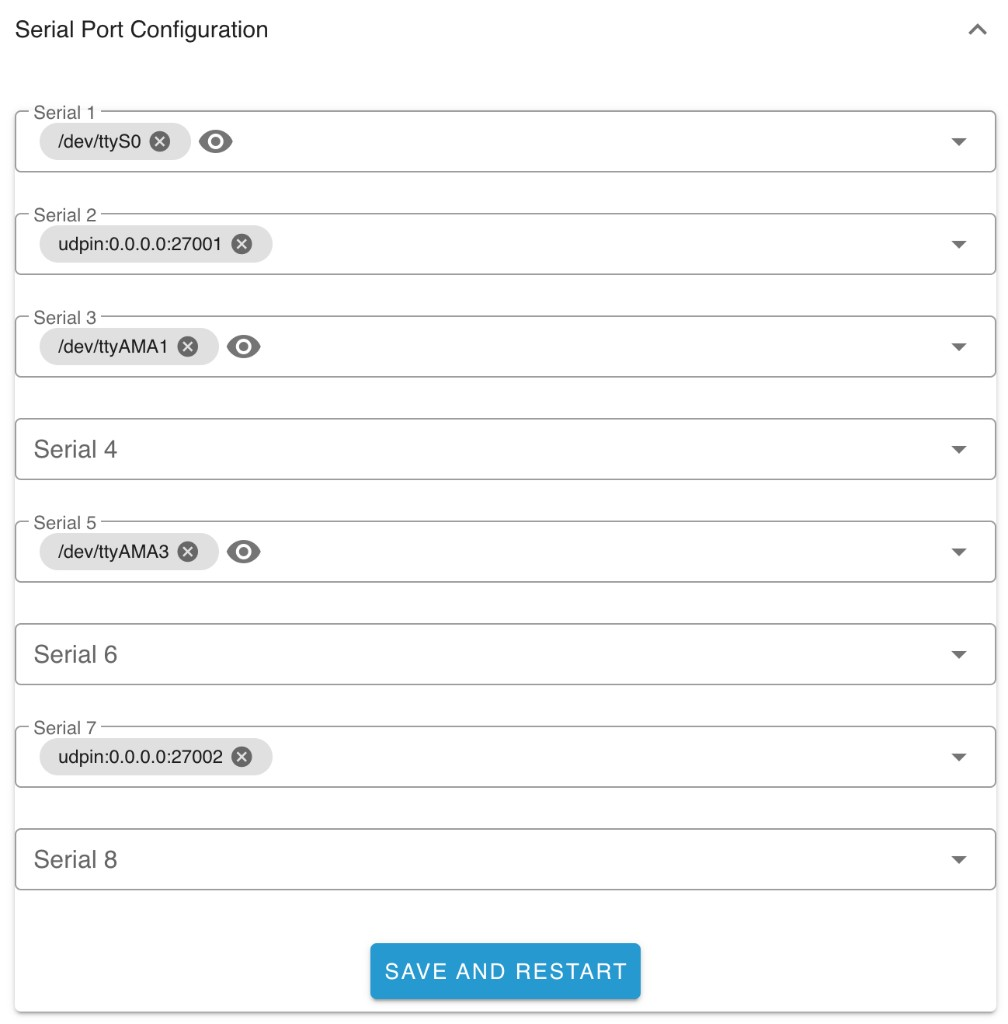
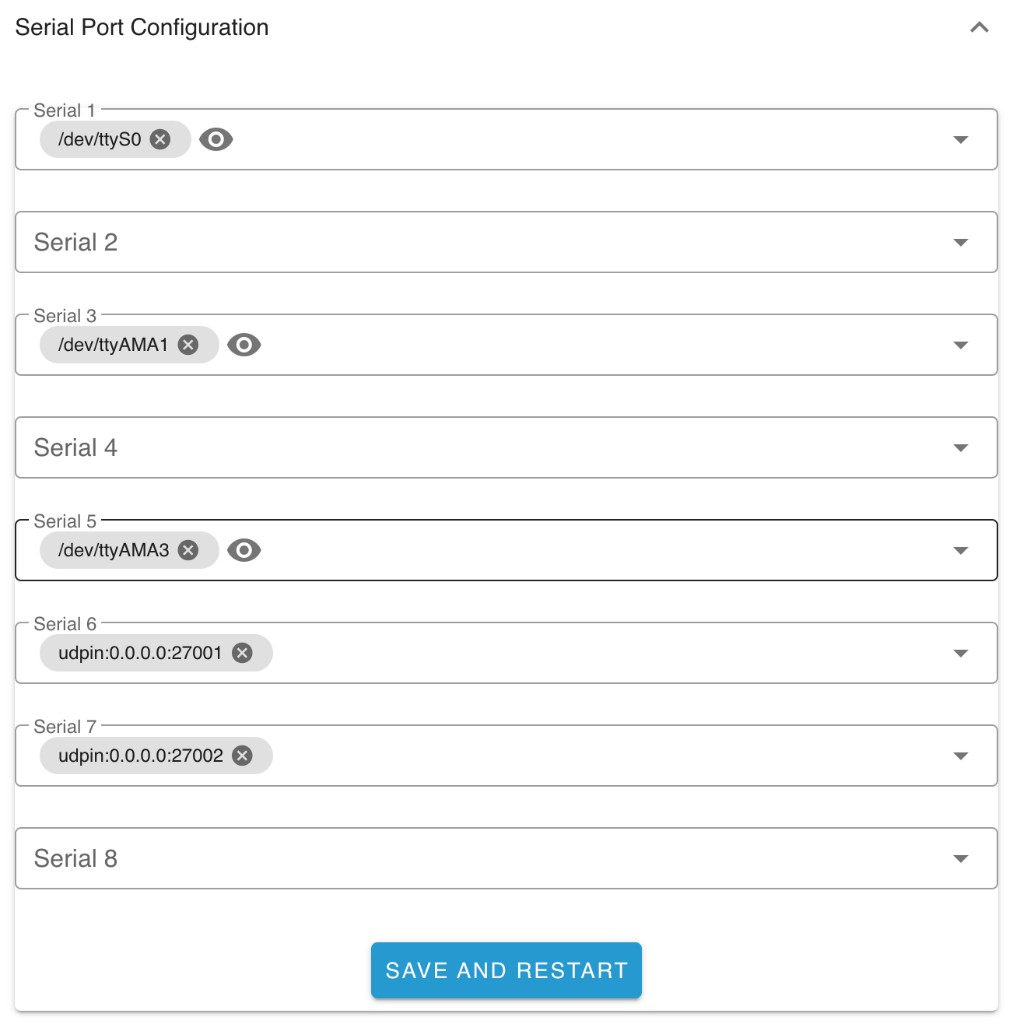
Bind NMEA sender to stable UDP source port (1.1.7)

diff --git a/app/main.py b/app/main.py
@@ -126,9 +126,14 @@ class NMEAHandler:
     # addressed to 172.18.0.1 -- silently no longer matches. ArduPilot
     # received exactly one datagram per boot and then went deaf, which is
     # why restarting never helped and the wind feed was silently broken in
-    # the same way. Sending from 127.0.0.1 keeps the source address stable
-    # for the lifetime of the process.
+    # the same way. Sending from 127.0.0.1 keeps the source address stable.
+    #
+    # UDPDevice also pins the sender's source *port*. An unbound socket gets
+    # a new ephemeral port after every extension restart, leaving ArduPilot
+    # connected to a dead process. Bind one fixed source endpoint for both
+    # routes so extension-only restarts do not break either feed.
     UDP_HOST = '127.0.0.1'
+    UDP_SOURCE_PORT = 27100
     UDP_WIND_PORT = 27001
     UDP_GPS_PORT = 27002
     UDP_WIND_SENTENCES = frozenset({'MWV'})
@@ -1231,7 +1236,7 @@ class NMEAHandler:
         """
         try:
             if not self.udp_socket:
-                self.udp_socket = socket.socket(socket.AF_INET, socket.SOCK_DGRAM)
+                self.udp_socket = self._create_udp_socket()
             if not self.is_streaming:
                 # Reset counters only when actually starting so a re-toggle
                 # after a stop starts fresh, but redundant `start` calls do
@@ -1243,7 +1248,9 @@ class NMEAHandler:
             self.state['is_streaming'] = True
             self.save_state()
             self.app_logger.info(
-                "UDP streaming started — wind %s → %s:%d, gps %s → %s:%d",
+                "UDP streaming started — source %s:%d; "
+                "wind %s → %s:%d, gps %s → %s:%d",
+                self.UDP_HOST, self.UDP_SOURCE_PORT,
                 sorted(self.UDP_WIND_SENTENCES), self.UDP_HOST, self.UDP_WIND_PORT,
                 sorted(self.UDP_GPS_SENTENCES), self.UDP_HOST, self.UDP_GPS_PORT,
             )
@@ -1251,6 +1258,16 @@ class NMEAHandler:
         except Exception as e:
             self.app_logger.error(f"Error starting UDP stream: {e}")
             return False, str(e)
+
+    def _create_udp_socket(self):
+        """Create a sender bound to ArduPilot's stable peer endpoint."""
+        sock = socket.socket(socket.AF_INET, socket.SOCK_DGRAM)
+        try:
+            sock.bind((self.UDP_HOST, self.UDP_SOURCE_PORT))
+        except Exception:
+            sock.close()
+            raise
+        return sock
 
     def stop_streaming(self):
         """Stop UDP streaming"""
@@ -1293,6 +1310,7 @@ class NMEAHandler:
                 'host': self.UDP_HOST,
                 'port': self.UDP_WIND_PORT,
                 'endpoint': f'{self.UDP_HOST}:{self.UDP_WIND_PORT}',
+                'source_endpoint': f'{self.UDP_HOST}:{self.UDP_SOURCE_PORT}',
                 'streamed_messages': self.streamed_wind_messages,
             },
             {
@@ -1301,6 +1319,7 @@ class NMEAHandler:
                 'host': self.UDP_HOST,
                 'port': self.UDP_GPS_PORT,
                 'endpoint': f'{self.UDP_HOST}:{self.UDP_GPS_PORT}',
+                'source_endpoint': f'{self.UDP_HOST}:{self.UDP_SOURCE_PORT}',
                 'streamed_messages': self.streamed_gps_messages,
             },
         ]
@@ -1616,8 +1635,11 @@ class NMEAHandler:
         port, counter_attr = route
         try:
             if not self.udp_socket:
-                self.udp_socket = socket.socket(socket.AF_INET, socket.SOCK_DGRAM)
-                self.app_logger.debug("Created new UDP socket")
+                self.udp_socket = self._create_udp_socket()
+                self.app_logger.debug(
+                    "Created UDP socket bound to %s:%d",
+                    self.UDP_HOST, self.UDP_SOURCE_PORT,
+                )
 
             encoded_message = (message + '\n').encode()
             self.udp_socket.sendto(encoded_message, (self.UDP_HOST, port))
@@ -1628,7 +1650,7 @@ class NMEAHandler:
             try:
                 if self.udp_socket:
                     self.udp_socket.close()
-                self.udp_socket = socket.socket(socket.AF_INET, socket.SOCK_DGRAM)
+                self.udp_socket = self._create_udp_socket()
             except Exception as socket_error:
                 self.app_logger.error(f"Failed to recreate socket: {socket_error}")
 

diff --git a/tests/test_udp_routing.py b/tests/test_udp_routing.py
@@ -56,6 +56,10 @@ class _FakeSocket:
     def __init__(self):
         self.sent = []
         self.closed = False
+        self.bound = None
+
+    def bind(self, addr):
+        self.bound = addr
 
     def sendto(self, data, addr):
         self.sent.append((data, addr))
@@ -152,6 +156,33 @@ class UdpRoutingTests(unittest.TestCase):
         self.assertEqual(sorted(by_name['wind']['sentences']), ['MWV'])
         self.assertEqual(sorted(by_name['gps']['sentences']),
                          ['GGA', 'HDT', 'RMC', 'VTG'])
+        self.assertEqual(by_name['wind']['source_endpoint'],
+                         '127.0.0.1:27100')
+        self.assertEqual(by_name['gps']['source_endpoint'],
+                         '127.0.0.1:27100')
+
+    def test_udp_sender_binds_stable_source_port(self):
+        """ArduPilot pins both source IP and source port after the first
+        datagram. A new ephemeral port after an extension restart would
+        leave both udpin receivers connected to the dead process."""
+        fake = _FakeSocket()
+        with mock.patch.object(self.main.socket, 'socket',
+                               return_value=fake):
+            created = self.handler._create_udp_socket()
+        self.assertIs(created, fake)
+        self.assertEqual(fake.bound, ('127.0.0.1', 27100))
+
+    def test_udp_bind_failure_closes_socket(self):
+        class _FailingBindSocket(_FakeSocket):
+            def bind(self, addr):
+                raise OSError('source port already in use')
+
+        fake = _FailingBindSocket()
+        with mock.patch.object(self.main.socket, 'socket',
+                               return_value=fake):
+            with self.assertRaises(OSError):
+                self.handler._create_udp_socket()
+        self.assertTrue(fake.closed)
 
     def test_status_snapshot_has_no_legacy_mode_key(self):
         snap = self.handler._stream_status_snapshot()

diff --git a/README.md b/README.md
@@ -69,6 +69,13 @@ When manually installing, paste this into the **Custom settings** field:
 > `NetworkMode: host` makes the container share the host's `lo`. The
 > `ExtraHosts` mapping for `host.docker.internal` is no longer required
 > and has been removed.
+>
+> ArduPilot pins the sender's UDP source **port** as well as its address.
+> The extension therefore binds its sender to the fixed endpoint
+> `127.0.0.1:27100`; both destination routes use that source. This keeps
+> wind and GPS working across extension-only restarts instead of changing
+> to a new ephemeral source port. After upgrading from 1.1.6 or earlier,
+> restart the autopilot once to clear its previously pinned peer.
 
 ## ArduPilot UDP Streaming (dual routes)
 
@@ -86,7 +93,7 @@ Open **BlueOS → Autopilot Firmware → Serial port configuration** and set two
 - `udpin:0.0.0.0:27001` — the SERIAL port that will act as the wind vane
 - `udpin:0.0.0.0:27002` — the SERIAL port that will act as the GPS/heading source
 
-Do NOT use the same serial index for both, and do NOT overwrite the on-board GPS serial. The extension surfaces both strings with a click-to-copy button on the **Sentences** tab (next to a screenshot of the serial-config page).
+Do NOT use the same serial index for both, and do NOT overwrite the on-board GPS serial. The extension surfaces both strings with a click-to-copy button under **Setup → Step 2a** next to the serial-config screenshot.
 
 ### ArduRover parameter setup (from the extension)
 

diff --git a/app/static/images/README.md b/app/static/images/README.md
@@ -13,8 +13,8 @@ that card (per user request the tab is image-led with no prose).
 Screenshot of BlueOS **Autopilot Firmware → Serial port configuration**
 with two serial slots set to:
 
-- `udpin:0.0.0.0:27001` (wind serial)
-- `udpin:0.0.0.0:27002` (GPS/heading serial)
+- Serial 6: `udpin:0.0.0.0:27001` (wind)
+- Serial 7: `udpin:0.0.0.0:27002` (GPS/heading)
 
 Rendered under **Setup → Step 2a** next to the copyable `udpin` strings.
 If the file is missing, the UI falls back to text guidance automatically.
